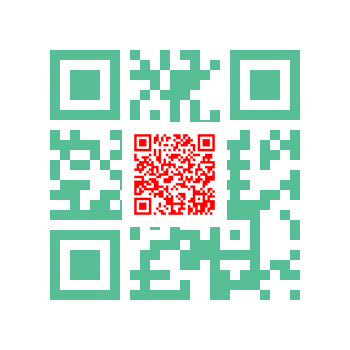
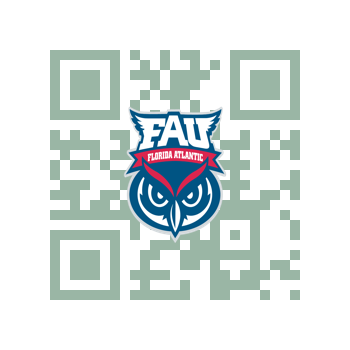
bug fixxed

diff --git a/qr_code_generator.py b/qr_code_generator.py
@@ -39,8 +39,8 @@ def generate_qr():
         img_with_shape = apply_shape_mask(img, shape)
 
         if uploaded_image_path:
-            blended_img = blend_image_with_qr(img_with_shape, uploaded_image_path)
-            blended_img.save("qr_code.png")
+            img_with_logo = embed_image_in_qr(img_with_shape, uploaded_image_path)
+            img_with_logo.save("qr_code.png")
         else:
             img_with_shape.save("qr_code.png")
 
@@ -86,20 +86,27 @@ def apply_shape_mask(qr_image, shape):
     qr_image.putalpha(mask)
     return qr_image
 
-def blend_image_with_qr(qr_img, logo_path):
+def embed_image_in_qr(qr_img, logo_path):
     try:
         logo = Image.open(logo_path).convert("RGBA")
-        logo = logo.resize((int(qr_img.size[0] * 0.3), int(qr_img.size[1] * 0.3)))
+        logo = logo.resize((int(qr_img.size[0] * 0.4), int(qr_img.size[1] * 0.4)))
 
         logo_position = ((qr_img.size[0] - logo.size[0]) // 2, (qr_img.size[1] - logo.size[1]) // 2)
 
-        blended_img = Image.new("RGBA", qr_img.size)
-        blended_img.paste(qr_img.convert("RGBA"), (0, 0))
-        blended_img.paste(logo, logo_position, logo)
+        # Create a mask for the image placement inside the QR code
+        mask = Image.new("L", (qr_img.size[0], qr_img.size[1]), 0)
+        draw = ImageDraw.Draw(mask)
+        draw.rectangle([logo_position[0], logo_position[1], logo_position[0] + logo.size[0], logo_position[1] + logo.size[1]], fill=255)
+        qr_img.putalpha(mask)
 
-        return blended_img.convert("RGB")
+        # Combine the QR code and logo
+        combined = Image.new("RGBA", qr_img.size)
+        combined.paste(qr_img.convert("RGBA"), (0, 0))
+        combined.paste(logo, logo_position, logo)
+
+        return combined.convert("RGB")
     except Exception as e:
-        messagebox.showerror("Image Error", f"Failed to blend image: {str(e)}")
+        messagebox.showerror("Image Error", f"Failed to embed image in QR: {str(e)}")
         return qr_img
 
 def download_qr_code():
@@ -187,15 +194,11 @@ color_button.pack(pady=5)
 upload_button = tk.Button(premium_buttons_frame, text="Upload Image for QR (Premium)", command=upload_image, bg='#007bff', fg='white', font=('Helvetica', 12))
 upload_button.pack(pady=5)
 
-premium_button = tk.Button(frame, text="Sign Up for Premium", command=sign_up_premium, bg='#ffc107', fg='black', font=('Helvetica', 12))
-premium_button.pack(pady=10)
+reset_button = tk.Button(frame, text="Reset", command=reset_fields, bg='#dc3545', fg='white', font=('Helvetica', 12))
+reset_button.pack(pady=10)
 
-reset_button = tk.Button(frame, text="Reset Fields", command=reset_fields, bg='#6c757d', fg='white', font=('Helvetica', 12))
-reset_button.pack(pady=5)
-
-loading_label = tk.Label(frame, text="Generating QR Code...", font=('Helvetica', 14), bg='#ffffff', fg='#000000')
-
-qr_label = tk.Label(root, bg='#ffffff')
-qr_label.pack(pady=20)
+if not is_premium:
+    premium_button = tk.Button(frame, text="Sign Up for Premium Features", command=sign_up_premium, bg='#007bff', fg='white', font=('Helvetica', 12))
+    premium_button.pack(pady=10)
 
 root.mainloop()
